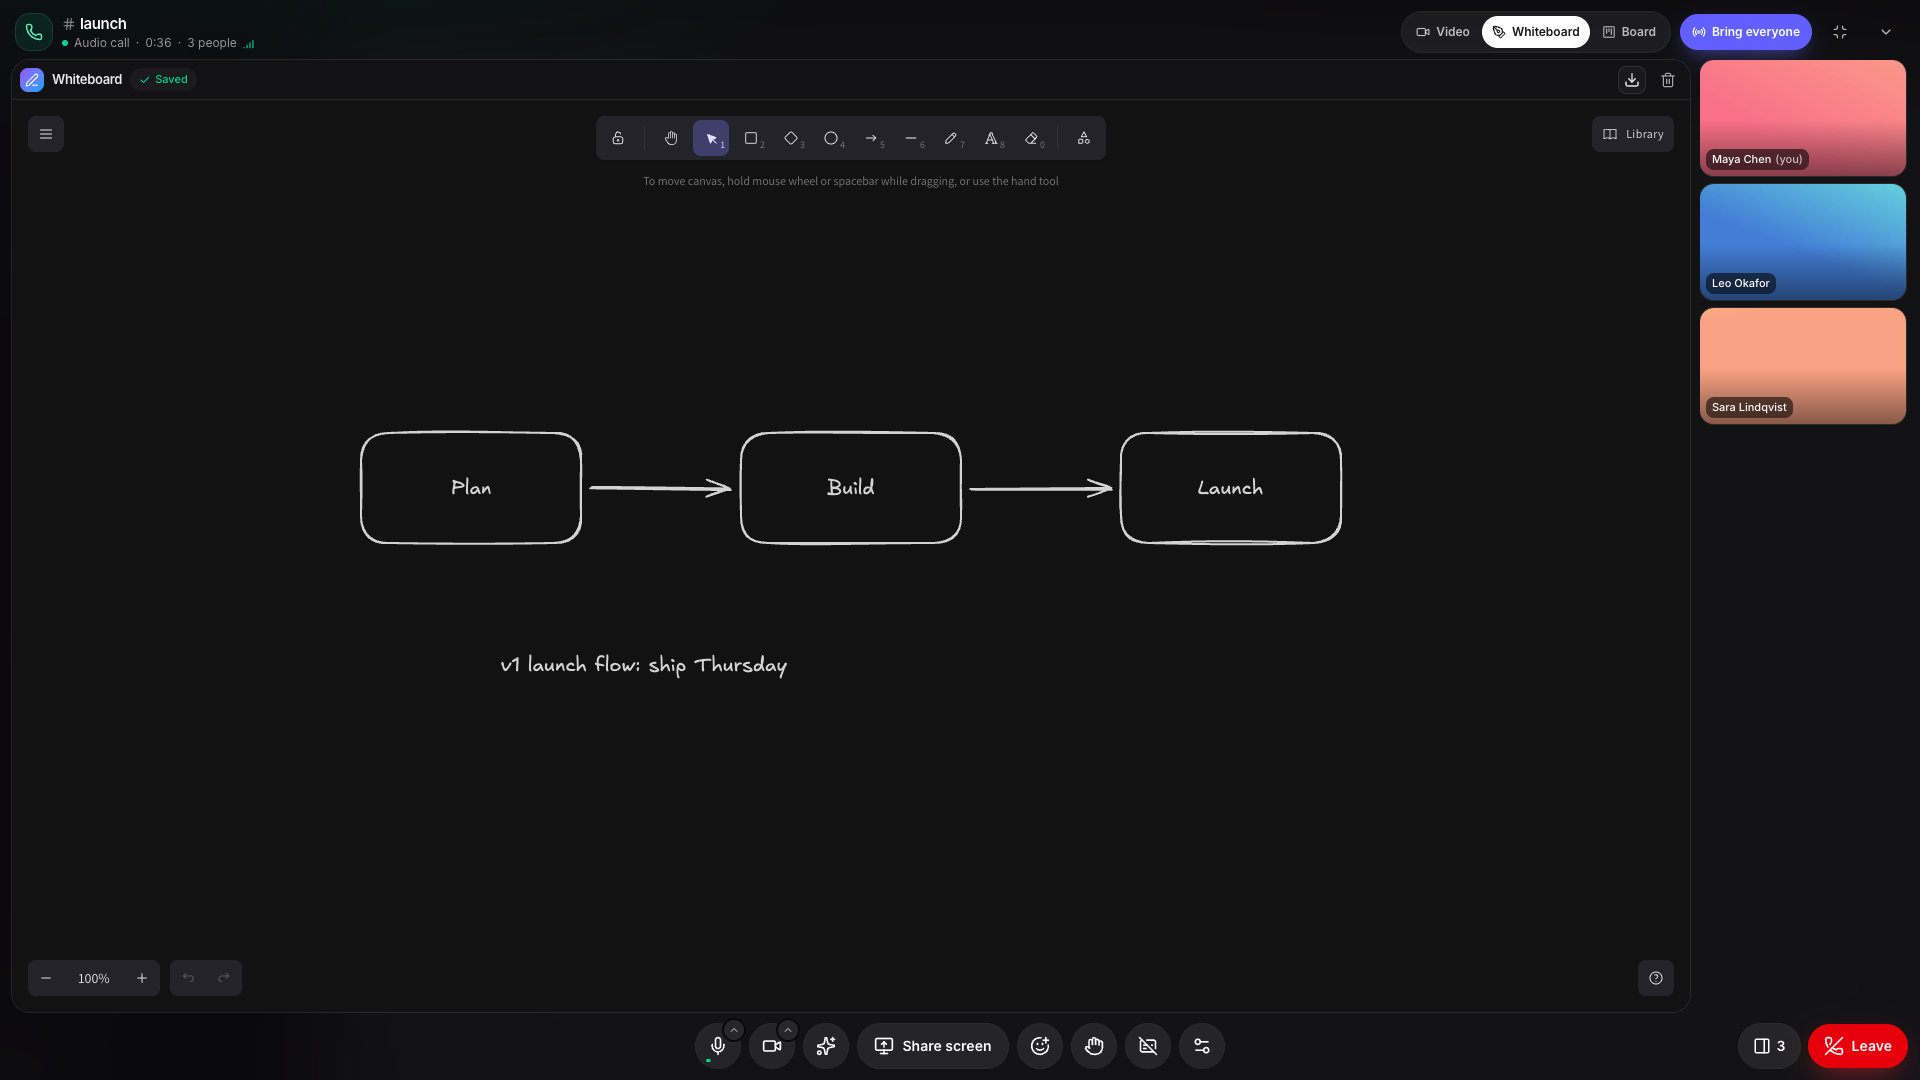
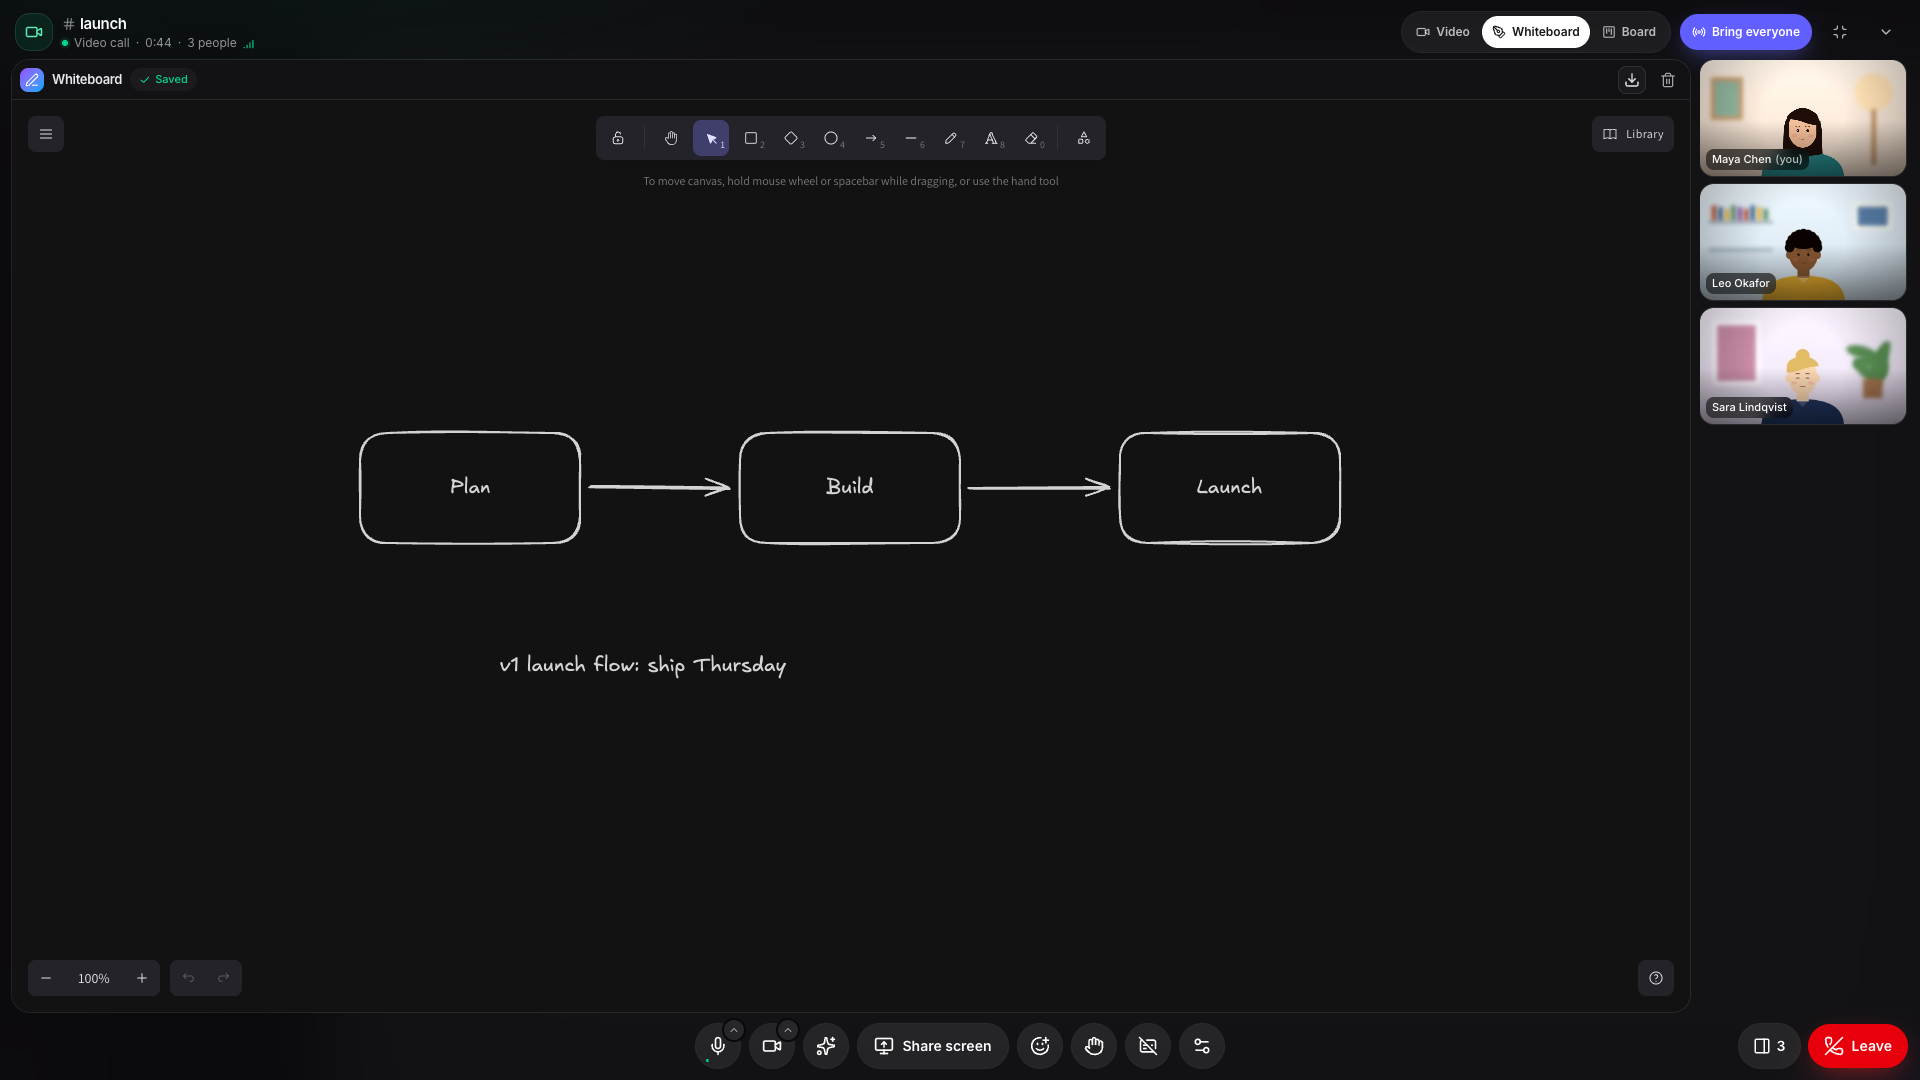
docs: retake the Meet screenshots and huddle GIF with people on camera (#55)
The old huddle shots used plain gradient camera feeds, so every tile was an empty colour
block, with stray reaction emoji and a tooltip in frame. New Full HD stills (video grid with
a raised hand, whiteboard and board on stage) and a lighter GIF (4.3 MB, was 5.4 MB) use
illustrated camera feeds of the demo people, captured from three real sessions in one huddle.

Closes #54

diff --git a/README.md b/README.md
@@ -74,7 +74,7 @@ Ring a teammate, start a huddle in a channel, or schedule one for later: it land
 
 | | |
 |---|---|
-| ![A huddle with three people and emoji reactions](docs/screenshots/huddle.png) | ![An incoming video call](docs/screenshots/incoming-call.png) |
+| ![A video huddle with three people, one with a raised hand](docs/screenshots/huddle.png) | ![An incoming video call](docs/screenshots/incoming-call.png) |
 | ![The whiteboard on stage during a call](docs/screenshots/huddle-whiteboard.png) | ![The board on stage during a call](docs/screenshots/huddle-board.png) |
 
 <p align="center">

diff --git a/docs/SCREENSHOTS.md b/docs/SCREENSHOTS.md
@@ -235,7 +235,7 @@ Calls ring: decline, answer with audio, or answer with video.
 
 ### Huddle
 
-People on camera in the meeting window, with emoji reactions labelled by sender.
+People on camera in the meeting window. A raised hand shows on the tile; emoji reactions float up labelled by sender.
 
 [![Huddle](screenshots/huddle.png)](screenshots/huddle.png)
 
